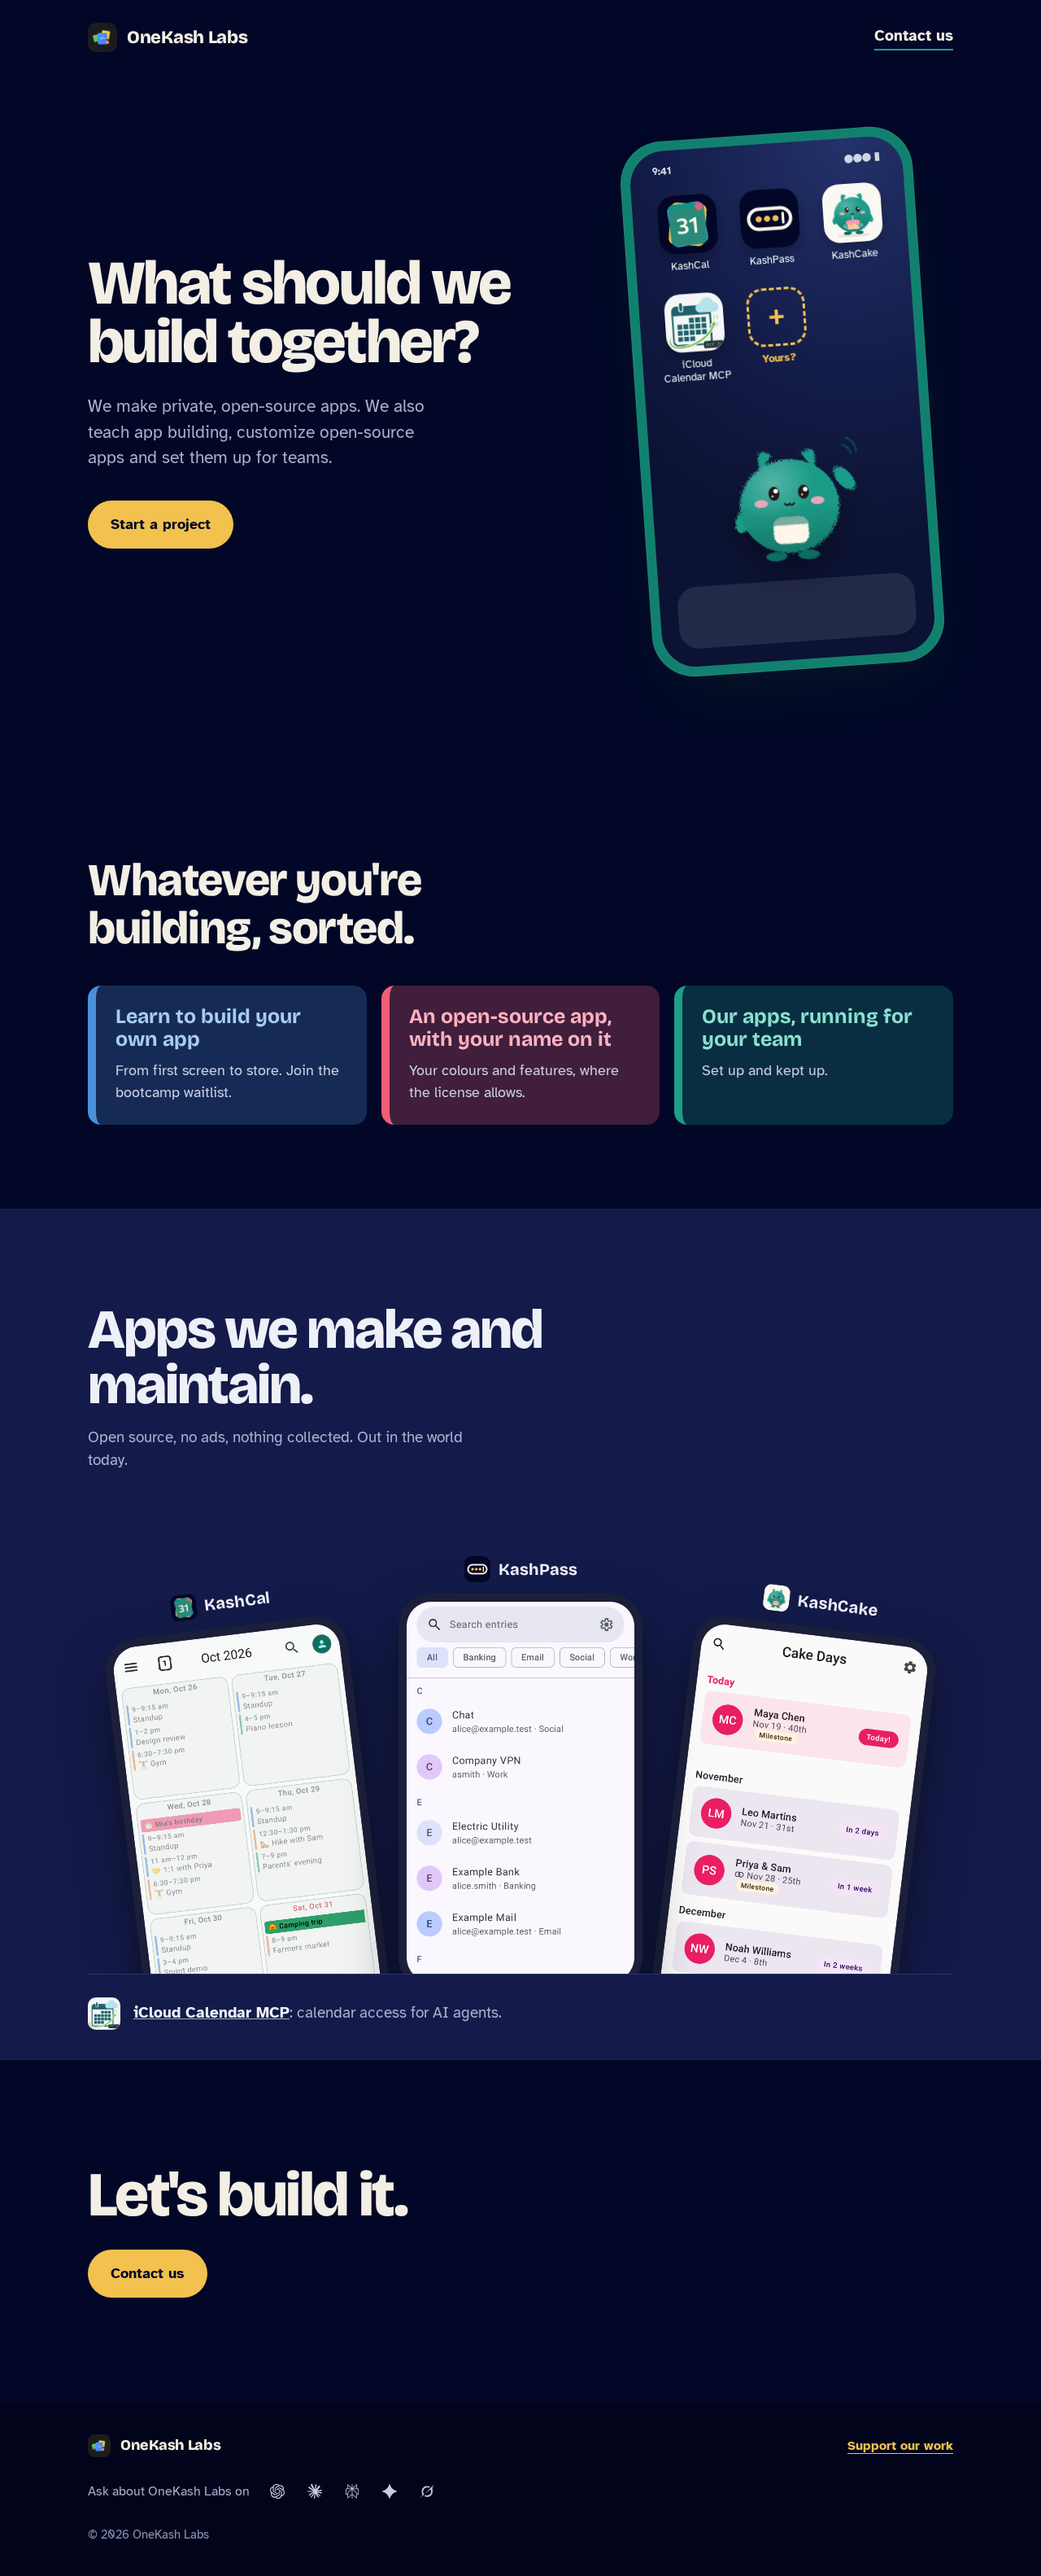
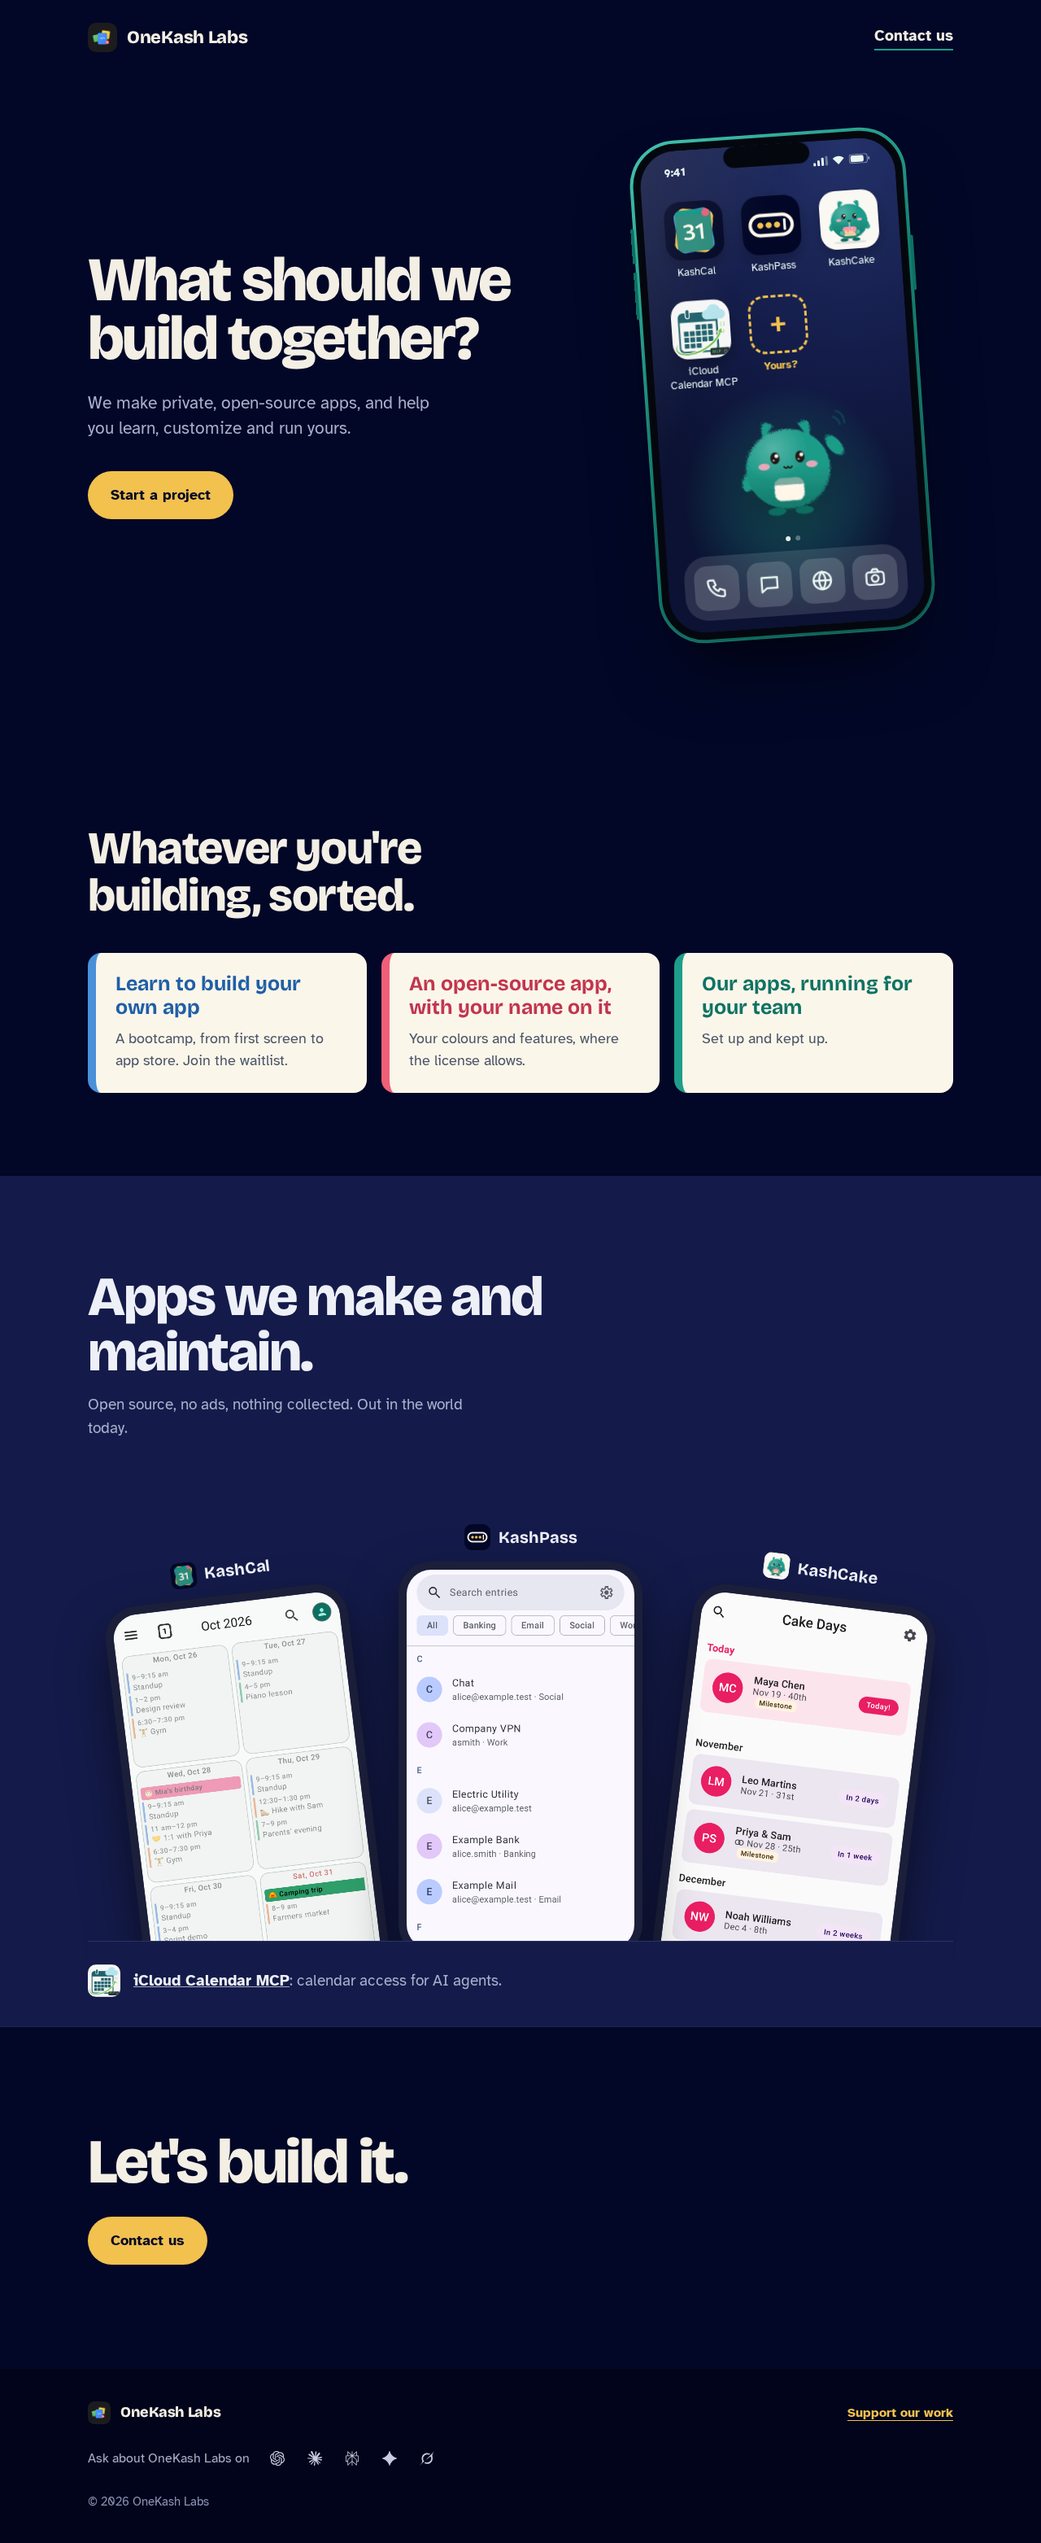
Cream offer tiles, sharper hero and bootcamp copy, page title and description

diff --git a/index.html b/index.html
@@ -3,7 +3,8 @@
 <head>
 <meta charset="utf-8">
 <meta name="viewport" content="width=device-width, initial-scale=1">
-<title>OneKash Labs</title>
+<title>OneKash Labs: private, open-source apps, built with you</title>
+<meta name="description" content="OneKash Labs makes private, open-source apps, and helps you learn to build, customize and run yours.">
 <link rel="icon" href="img/logo.svg" type="image/svg+xml">
 <link rel="icon" href="img/logo-32-favicon.png" sizes="32x32" type="image/png">
 <link rel="icon" href="img/logo-16-favicon.png" sizes="16x16" type="image/png">
@@ -94,10 +95,10 @@
   .offers { padding: clamp(56px, 8vw, 104px) 0; }
   .offers h2 { font-family: var(--display); font-weight: 800; font-size: clamp(34px, 4.6vw, 56px); line-height: 1.05; letter-spacing: -.025em; max-width: 18ch; margin-bottom: 40px; }
   .tiles { display: grid; grid-template-columns: repeat(3, 1fr); gap: 18px; }
-  .tile { display: block; text-decoration: none; border-radius: 16px; padding: 24px 24px 26px; border-inline-start: 10px solid var(--tile); background: color-mix(in srgb, var(--tile) 26%, #020727); color: #F3EFE4; }
-  .tile:hover { background: color-mix(in srgb, var(--tile) 36%, #020727); }
+  .tile { display: block; text-decoration: none; border-radius: 16px; padding: 24px 24px 26px; border-inline-start: 10px solid var(--tile); background: #FBF6EA; color: #0B1B33; }
+  .tile:hover { background: #FFFFFF; }
   .tile h3 { font-family: var(--display); font-weight: 700; font-size: 25px; line-height: 1.15; margin-bottom: 10px; color: var(--tile-ink); }
-  .tile p { color: #C9CDE3; font-size: 18px; }
+  .tile p { color: #4B5568; font-size: 18px; }
 
   /* Proof: the one dark band, three of the apps fanned out as phones showing their real screens. */
   .built { background: var(--navy); color: #EEF0F7; padding: clamp(72px, 9vw, 120px) 0 0; overflow: hidden; }
@@ -163,7 +164,7 @@
   <section class="hero">
     <div>
       <h1>What should we build together?</h1>
-      <p>We make private, open-source apps. We also teach app building, customize open-source apps and set them up for teams.</p>
+      <p>We make private, open-source apps, and help you learn, customize and run yours.</p>
       <a class="btn" href="#talk">Start a project</a>
     </div>
     <div class="stage">
@@ -199,9 +200,9 @@
   <section class="offers" aria-labelledby="offers-h">
     <h2 id="offers-h">Whatever you're building, sorted.</h2>
     <div class="tiles">
-      <a class="tile" style="--tile: #4A90D9; --tile-ink: #A9CCF2" href="#" data-mail="Bootcamp waitlist"><h3>Learn to build your own app</h3><p>From first screen to store. Join the bootcamp waitlist.</p></a>
-      <a class="tile" style="--tile: #EF5F78; --tile-ink: #FFB3C0" href="#talk"><h3>An open-source app, with your name on it</h3><p>Your colours and features, where the license allows.</p></a>
-      <a class="tile" style="--tile: #1E9E8A; --tile-ink: #8BE0D0" href="#talk"><h3>Our apps, running for your team</h3><p>Set up and kept up.</p></a>
+      <a class="tile" style="--tile: #4A90D9; --tile-ink: #1F5FA8" href="#" data-mail="Bootcamp waitlist"><h3>Learn to build your own app</h3><p>A bootcamp, from first screen to app store. Join the waitlist.</p></a>
+      <a class="tile" style="--tile: #EF5F78; --tile-ink: #C2354F" href="#talk"><h3>An open-source app, with your name on it</h3><p>Your colours and features, where the license allows.</p></a>
+      <a class="tile" style="--tile: #1E9E8A; --tile-ink: #0E7364" href="#talk"><h3>Our apps, running for your team</h3><p>Set up and kept up.</p></a>
     </div>
   </section>
 </div>
